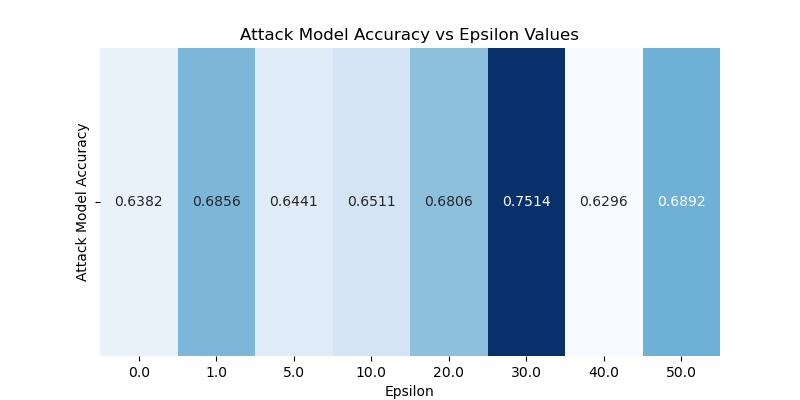
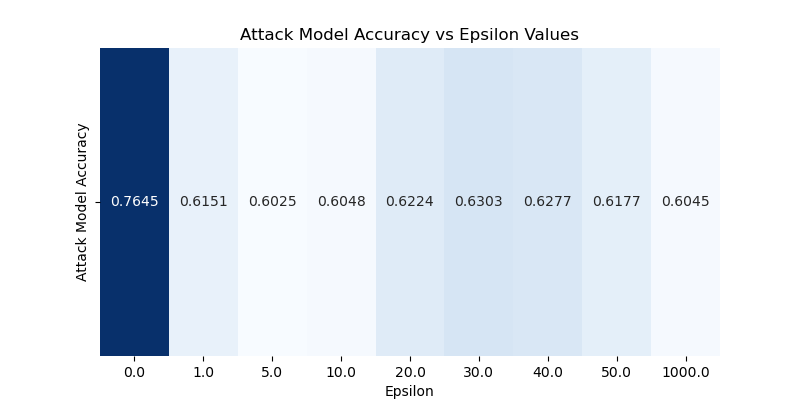
Working GPU code with MIA attack

diff --git a/GPU_CIFAR10_DP_FedAvg.py b/GPU_CIFAR10_DP_FedAvg.py
@@ -20,19 +20,19 @@ print(f"Using device: {device}")
 print(f"Selected GPU: {torch.cuda.get_device_name(device)}")
 
 class SimpleCNN(nn.Module):
-    def __init__(self):
+    def __init__(self, input_channels=3):
         super(SimpleCNN, self).__init__()
-        self.conv1 = nn.Conv2d(3, 6, 5)
+        self.conv1 = nn.Conv2d(input_channels, 6, 5)
         self.pool = nn.MaxPool2d(2, 2)
         self.conv2 = nn.Conv2d(6, 16, 5)
-        self.fc1 = nn.Linear(16 * 5 * 5, 120)
+        self.fc1 = nn.Linear(16 * 4 * 4 if input_channels == 1 else 16 * 5 * 5, 120)
         self.fc2 = nn.Linear(120, 84)
         self.fc3 = nn.Linear(84, 10)
 
     def forward(self, x):
         x = self.pool(F.relu(self.conv1(x)))
         x = self.pool(F.relu(self.conv2(x)))
-        x = x.view(-1, 16 * 5 * 5)
+        x = x.view(x.size(0), -1)
         x = F.relu(self.fc1(x))
         x = F.relu(self.fc2(x))
         x = self.fc3(x)
@@ -48,11 +48,11 @@ def get_test_loader(testset):
     return test_loader
 
 def load_dataset(dataset_name):
-    transform = transforms.Compose([
-        transforms.ToTensor(),
-        transforms.Normalize((0.5, 0.5, 0.5), (0.5, 0.5, 0.5))
-    ])
     if dataset_name == 'CIFAR10':
+        transform = transforms.Compose([
+            transforms.ToTensor(),
+            transforms.Normalize((0.5, 0.5, 0.5), (0.5, 0.5, 0.5))
+        ])
         trainset = datasets.CIFAR10(root='./data', train=True, download=True, transform=transform)
         testset = datasets.CIFAR10(root='./data', train=False, download=True, transform=transform)
     elif dataset_name == 'MNIST':
@@ -83,8 +83,8 @@ def train_client(loader, model, epochs, delta, epsilon, record_logits=False):
             if record_logits:
                 train_logits.extend([(logit, t) for logit, t in zip(output.detach().cpu().numpy(), target.cpu().numpy())])
 
-        print(f"Epoch {epoch + 1}: Memory allocated: {torch.cuda.memory_allocated(device)} bytes")
-        print(f"Epoch {epoch + 1}: Memory cached: {torch.cuda.memory_reserved(device)} bytes")
+       # print(f"Epoch {epoch + 1}: Memory allocated: {torch.cuda.memory_allocated(device)} bytes")
+       # print(f"Epoch {epoch + 1}: Memory cached: {torch.cuda.memory_reserved(device)} bytes")
 
     return model, train_logits if record_logits else model
 
@@ -134,12 +134,13 @@ def train_attack_model(X, y):
     print(f"Attack Model Accuracy: {accuracy:.4f}")
     return attack_model, accuracy
 
-def run_fedavg(dataset_name='MNIST', num_clients=4, num_rounds=5, local_epochs=1, epsilon_values=[0.0, 1.0, 5.0, 10.0, 20.0, 30.0, 40.0, 50.0], delta=0.002):
+def run_fedavg(dataset_name='MNIST', num_clients=4, num_rounds=10, local_epochs=1, epsilon_values=[0.0, 1.0, 5.0, 10.0, 20.0, 30.0, 40.0, 50.0, 1000.0], delta=0.002):
     trainset, testset = load_dataset(dataset_name)
     client_loaders = partition_data(trainset, num_clients)
     test_loader = get_test_loader(testset)
 
-    global_model = SimpleCNN().to(device)
+    input_channels = 1 if dataset_name == 'MNIST' else 3
+    global_model = SimpleCNN(input_channels=input_channels).to(device)
 
     if not os.path.exists('./log'):
         os.makedirs('./log')
@@ -148,7 +149,7 @@ def run_fedavg(dataset_name='MNIST', num_clients=4, num_rounds=5, local_epochs=1
 
     for epsilon in epsilon_values:
         dp_accuracies = []
-        global_model_dp = SimpleCNN().to(device)
+        global_model_dp = SimpleCNN(input_channels=input_channels).to(device)
 
         for round in range(num_rounds):
             client_models = [train_client(loader, global_model_dp, local_epochs, delta, epsilon)[0] for loader in client_loaders]
@@ -181,7 +182,6 @@ def run_fedavg(dataset_name='MNIST', num_clients=4, num_rounds=5, local_epochs=1
     # Create a table for Attack Model Accuracy vs Epsilon Values
     attack_df = pd.DataFrame(attack_results, columns=['Epsilon', 'Attack Model Accuracy'])
     plt.figure(figsize=(8, 4))
-    plt.colorbar()
     sns.heatmap(attack_df.set_index('Epsilon').T, annot=True, cmap='Blues', cbar=False, fmt='.4f')
     plt.title('Attack Model Accuracy vs Epsilon Values')
     plt.savefig('./log/attack_model_accuracy_table.png')
